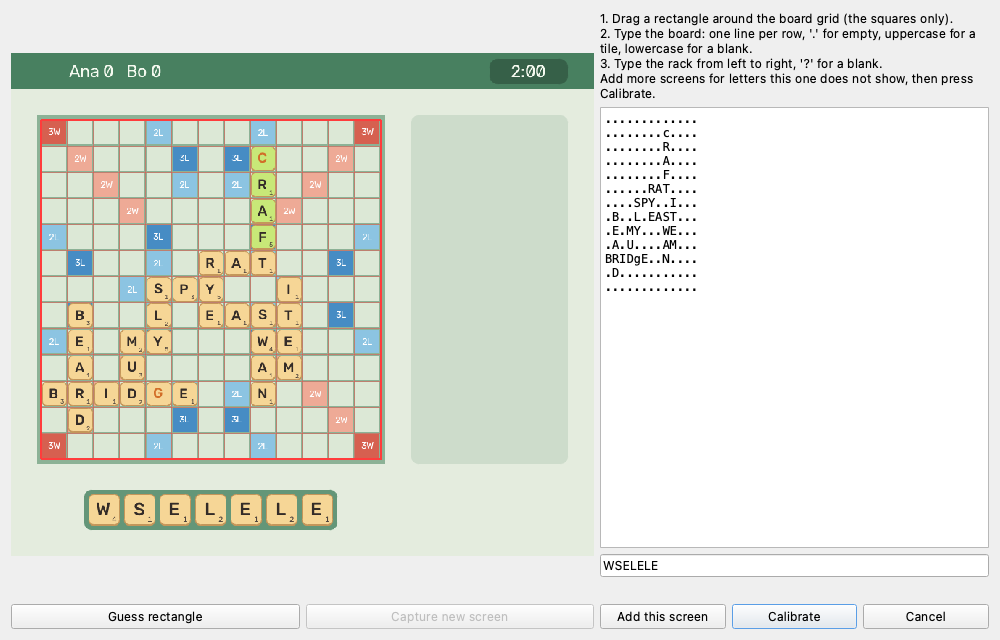
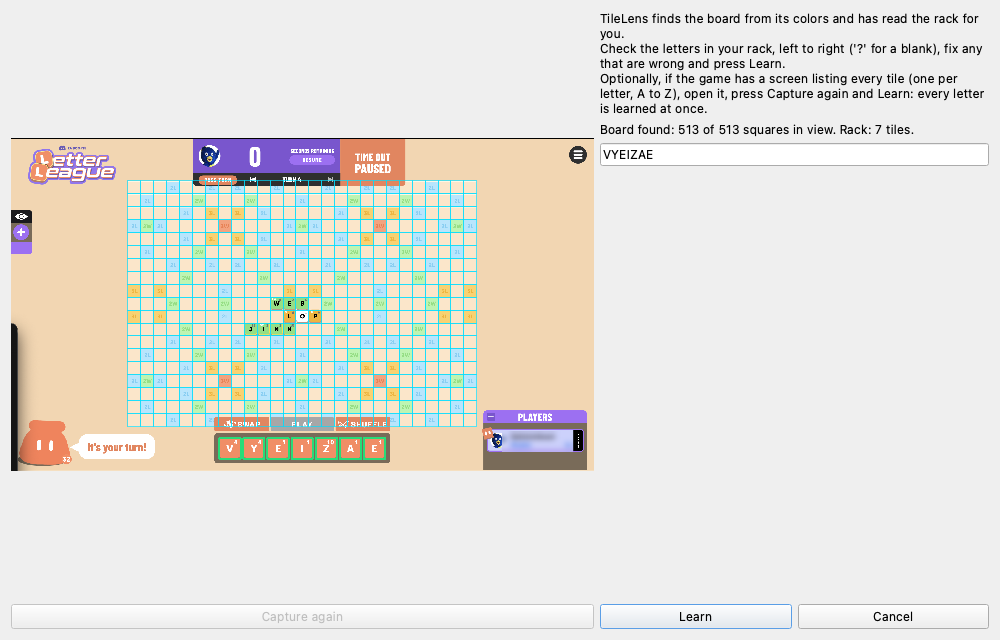
docs: show TileLens running in Discord

diff --git a/README.md b/README.md
@@ -9,27 +9,37 @@ board and your rack, finds the three highest-scoring legal placements for this t
 previews them as ghost tiles over the game window. It never clicks or places anything, and
 everything runs on your machine.
 
-![Control panel with three ranked placements](docs/images/panel.png)
+![TileLens over Discord's Letter League: confirmed rack, ghost tiles for the selected play and the top three placements](docs/images/discord-tracking.png)
 
-![Ghost tiles over the built-in fake game](docs/images/overlay.png)
+*TileLens running over Letter League in Discord: the rack is outlined green once every tile is
+read, the selected play is previewed as dashed ghost tiles, and the panel ranks the top three
+plays by total points. The player's name is blurred.*
 
-*All images come from TileLens's built-in fake game. No real game is shown.*
+![The panel: top three plays with points split into word and crossing words](docs/images/discord-panel.png)
 
 ## How it works
 
-1. **Capture.** A screen region you choose is captured 8 to 12 times a second (10 by default),
-   and only while something changes. Frames stay in memory.
-2. **Read.** The board grid is located, and each square is classified as empty or holding a
-   tile by its colors and its glyph. Letters are matched against templates learned from your
-   own screen during calibration. Uncertain squares go to a correction grid instead of being
-   guessed.
-3. **Confirm.** A position must read the same on three frames in a row. Tiles you have placed
-   but not yet submitted show "Waiting for board".
-4. **Search.** A word graph (DAWG) search runs in a separate process. It finds every legal
-   placement and keeps the top three by score, with ties broken by coordinates. A result is
-   shown only while the board on screen is still the position it was computed for.
-5. **Preview.** A click-through overlay draws the selected placement. The overlay is hidden from
-   screen capture, so TileLens never reads its own ghost tiles.
+1. **Capture.** The whole display that shows the game is captured 8 to 12 times a second (10 by
+   default), and only read when something changed. Frames stay in memory. TileLens's own windows
+   are never part of a capture.
+2. **Align.** The board is found from its square colors on every frame where it moved, so
+   zooming, panning, resizing and fullscreen need no setup. When the board moves the preview is
+   cleared at once and returns once the board is found again.
+3. **Read.** Each square is classified as empty or holding a tile, and the rack is read tile by
+   tile. Letters are matched against shapes learned from your own screen and, for letters not
+   seen yet, against stock-font shapes, so a fresh install reads the rack without typing it.
+   The point values printed on rack tiles are read too, so scores follow the game's values.
+4. **Settle.** A position must read the same on three frames in a row. Squares and rack tiles
+   that read unclear are settled in this order: remembered tiles, then the word list (the
+   next-best letter that makes every word through the square valid), then a lone-tile check.
+   What is still unclear never stops the suggestions: an unclear square is treated as a wall
+   and the panel names the tile and offers its best letters as buttons.
+5. **Search.** A word graph (DAWG) search runs in a separate process. It finds every legal
+   placement and keeps the top three by total score, premiums and crossing words included. A
+   result is shown only while the board on screen is still the position it was computed for.
+6. **Preview.** A click-through overlay draws the selected placement as ghost tiles. Clicking
+   a card in the panel holds that play still while you place your tiles, and tracking resumes
+   by itself when your rack refills. The overlay and the panel are hidden from screen capture.
 
 "Highest scoring" means the search finished; "best found so far" means it was cut short. A
 result is only as exact as the board, rack, profile and word list it was given.
@@ -68,29 +78,50 @@ Recording**, enable the terminal you run TileLens from, and reopen that terminal
 panel shows "Game not visible: Screen Recording permission is missing". See
 [docs/manual-verification.md](docs/manual-verification.md).
 
-## Calibration walkthrough
+## Using it with Letter League in Discord
 
-![Calibration dialog](docs/images/calibrate.png)
+1. Start TileLens (`uv run tilelens`) and open the game in Discord, windowed, maximized or
+   fullscreen. With a profile that has an `[appearance]` section (see below) there is nothing
+   to calibrate: TileLens finds the board, reads the rack and learns the game's look from the
+   first screen it sees, and the control window steps out of the way.
+2. Play. The panel shows **Tracking** and the top three plays. The first play is previewed on
+   the board; click another card to preview that one instead.
+3. **Click a card to place it.** The ghost tiles freeze (the panel says **Holding**) so you can
+   lay your tiles over them. When your rack is full again with new letters, TileLens reads it
+   and resumes by itself. Click the card again, or **Resume tracking**, to let go early.
+4. When someone else plays, the old suggestion is dropped at once and the position is searched
+   again. Zooming or panning clears the preview and realigns it when the board is found.
 
-1. **Pick a profile.** Use a profile that describes your game (see below), then press
-   **Profile…**.
-2. **Choose a word list.** Press **Word list…** to pick yours (see below).
-3. **Select the region.** Press **Select region** and drag around the game's board and rack.
-4. **Calibrate.** Press **Calibrate**.
-   - Drag a rectangle around the board grid. It only needs to be roughly right, or try
-     **Guess rectangle**.
-   - Type the board: one line per row, `.` for empty, uppercase for a tile, lowercase for a
-     blank.
-   - Type the rack from left to right, with `?` for a blank.
-   - Use **Add this screen** and **Capture new screen** to add screens that show letters the
-     first one did not.
-5. **Play.** The panel shows Ready with up to three cards. Click a card to preview it on the
-   board.
+The panel states and what to do:
 
-When something is unclear, the status turns to **Check tiles**. Open the grid, fix the
-highlighted squares, and TileLens learns from the fix.
+| State | Meaning | What to do |
+| --- | --- | --- |
+| Tracking | Cards are current for the position on screen | Nothing |
+| Aligning | The board moved and is being found again | Nothing |
+| Reading rack | The rack or board is still changing | Nothing |
+| Calculating | The search is running | Nothing |
+| Holding | A card was clicked; the suggestion is frozen | Place your tiles |
+| Check one tile | A tile cannot be worked around | Tap the letter it names |
+| Board obscured | A menu, popup or window covers the board | Bring the board back into view |
+| Paused | You paused tracking | Press Resume |
 
-![Correction grid with unclear squares highlighted](docs/images/check-tiles.png)
+An unsure tile does not stop the cards: the panel says which tile and shows its best letters as
+buttons, and one tap teaches TileLens that tile for good. **Calibrate** re-learns the game from
+the screen without typing; only if the rack cannot be read does it open a dialog with the best
+guess filled in. The ⚙ button opens the settings window, which is also in the menu bar.
+
+![The fallback calibration dialog on a Letter League screen, with the rack already read](docs/images/calibrate.png)
+
+If a play scores differently in the game than in TileLens, run
+`uv run tilelens check-screen` while the game is on screen: it prints what was read, the
+rack, the top plays and the time each step took. Tile values are read from the rack tiles
+themselves and saved beside your profile (`<profile>.learned.json`).
+
+### Without an `[appearance]` section
+
+A profile without it cannot find the board by itself. Select the region, press **Calibrate**,
+drag around the board grid, type the board and the rack, and use **Add this screen** to teach
+more letters. See [docs/vision.md](docs/vision.md).
 
 ## Profile format
 
@@ -151,6 +182,15 @@ B = 1
 path = "demo_words.txt"
 ```
 
+To let TileLens find the board by itself (zoom, pan, fullscreen and no calibration typing),
+add the colors of the empty squares and of a rack tile, as shown on your screen:
+
+```toml
+[appearance]
+rack_tile = "#EF8E66"
+squares = { "." = "#FBE6CA", d = "#B7E4FC", t = "#F8D272", D = "#BDF4B2", T = "#F1A27F" }
+```
+
 Check a profile with `uv run tilelens check-profile my.toml`. Every key is described in
 [docs/profile-format.md](docs/profile-format.md).
 
@@ -188,33 +228,52 @@ On synthetic boards across five themes, including one held out from all tuning:
 
 - 99.9–100% of squares are read correctly, and there were zero silent errors.
 - 88–98% of rack tiles are read without help. The rest are flagged, never guessed.
-- A frame takes about 25 ms to read.
 
-### End to end
+On real Letter League captures in Discord (two racks, 14 tiles, `benchmarks/bench_discord.py`),
+with no calibration at all, from stock-font shapes and the printed values:
 
-From a stable change in the fake game to the result in the panel:
+| Capture size | Letters named correctly | Point values correct |
+| --- | ---: | ---: |
+| 100% (Retina) | 14 / 14 | 14 / 14 |
+| 75% | 14 / 14 | 14 / 14 |
+| 50% | 14 / 14 | 14 / 14 |
 
-- 0.57 s median, 0.62 s p95 and 0.68 s worst with real screen capture, over 20 changes.
-- 0.49 s median in-process.
-- Zero stale results were shown in either mode.
+That is a small sample. Before this change, the first of those racks read 3 of 7 tiles
+correctly and flagged or misread the other four, on a calibration that had met 12 of 26 letters.
+
+### Settled position to updated suggestions
+
+Measured on the live game with `uv run tilelens check-screen` (3456x2234 capture, M5 Pro):
+
+- A frame is read in 22–40 ms while the board has not moved, because squares that look exactly
+  as before are not read again. Finding the board again after a zoom, pan or resize takes about
+  0.5 s, and the preview is cleared before that starts.
+- From a settled position to the top three plays: about 0.25 s of compute (read, search),
+  after the three matching frames the loop waits for (0.3 s at 10 Hz).
+- The search itself takes a few milliseconds on a mid-game board. Earlier synthetic runs
+  of the whole app measured 0.57 s median to a published result.
 
 ## Limits
 
 - **Dictionary mismatch.** If your word list differs from the game's, suggestions can be words
-  the game rejects, and some valid plays will be missing.
-- **One visible window.** The board and rack must be visible in one captured region.
-  Overlapping windows, a scrolled board or a hidden rack read as "Game not visible" or
-  Check tiles.
-- **Fixed grid.** TileLens assumes a flat grid of equal square cells that does not zoom or pan.
-  Resizing the window holds results until you recalibrate.
-- **Recognition is learned from your screen.** Letters you never calibrated or corrected are
-  flagged until you confirm them once. Unusual tile effects, such as textures, gradients or
-  heavy animation, are untested.
+  the game rejects, and some valid plays will be missing. The word list is also used to settle
+  unclear letters, so a play the list lacks can make TileLens doubt a correctly read tile; the
+  panel says when it changed a letter.
+- **The board must be on screen.** A menu, popup or another window over the board reads as
+  "Board obscured". Squares behind the game's own panels (timer, rack) are never read, and
+  suggestions avoid them.
+- **Tile values come from the rack.** Printed values are read from rack tiles, so a letter that
+  has not yet been in your rack uses the profile's value until it is. Board tiles print the
+  points they scored, with premiums applied, so they are not used.
+- **Letter League was tested live on one machine** (macOS 26.6, Apple silicon, Discord's
+  windowed and maximized view). Discord's own fullscreen could not be driven from the test
+  setup; the panel, overlay and dialogs were verified over a native fullscreen window of
+  another app, which is the same macOS mechanism. Blank tiles were not seen in the live game.
 - **Tentative tiles.** A game that draws placed-but-unplayed tiles exactly like played ones
-  cannot be told apart by color.
+  cannot be told apart by color. Clicking a card holds the suggestion so your own placing
+  never counts as a change.
 - **One turn only.** TileLens maximizes this turn's score, with no strategy, rack-leave
   evaluation or opponent modeling.
-- **Real games are untested.** Only synthetic boards and the fake game window were tested.
 
 ## Privacy
 

diff --git a/docs/performance.md b/docs/performance.md
@@ -73,3 +73,17 @@ from real screen capture.
 - Hardware and versions: Apple M5 Pro, 24 GB, macOS 26.6, Python 3.13.16, PySide6 6.12.0,
   OpenCV 5.0.0.93, NumPy 2.5.4, mss 10.2.0. The raw JSON is in
   `benchmarks/results/e2e-inproc.json` and `benchmarks/results/e2e-screen.json`.
+
+## Live Letter League captures
+
+`uv run python benchmarks/bench_discord.py` reads two rack strips cropped from a real game
+(`tests/fixtures/discord`) with no calibration, at 100%, 75% and 50% of the captured size.
+Letters and printed point values were 14 of 14 correct at every size
+(`benchmarks/results/discord-rack.json`). A rack strip takes about 40 ms to find and read at
+full size.
+
+`uv run tilelens check-screen` times the same steps on the live screen. On a 3456x2234 capture:
+the first read, which finds the board, takes about 0.5 s; later reads of an unchanged board take
+22 to 40 ms (squares that look as before are reused, and the rack is searched near where it
+was); and a settled position reaches the top three plays after about 0.25 s of compute. The
+three matching frames the loop waits for add 0.3 s at 10 Hz.
